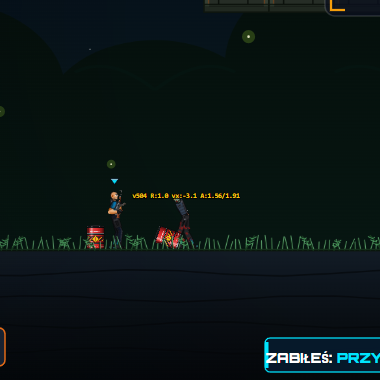
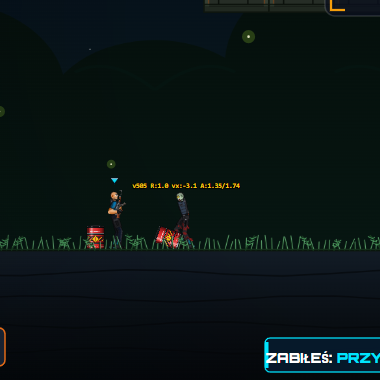
fix(zombie): zwiekszenie kontrastu skory, odsloniecie rak i wyrazna poza sięgania w locie

Changed region(s): [[0.3474, 0.4632, 0.6368, 0.6658], [0.2895, 0.4632, 0.3184, 0.4921]]

diff --git a/js/player/renderer.js b/js/player/renderer.js
@@ -514,7 +514,7 @@ export function drawPlayer(ctx, GROUND_Y, p) {
   } else if (p.isZombie) {
     // Aktywny, polujący zombie: zgarbiony tułów, powłóczący krok, luźne ramiona z daleka
     const fDir = (p.facing >= 0 ? 1 : -1);
-    p.torsoTilt = 0.10 * fDir;
+    p.torsoTilt = 0.08 * fDir;
     p.headPitch = 0.15;
     const walkAnim = p.walkAnim || 0;
     const isMoving = speed > 0.4;
@@ -1346,7 +1346,7 @@ export function drawPlayer(ctx, GROUND_Y, p) {
 
   const fLeanDir = (p.facing >= 0 ? 1 : -1);
   if (p.isZombie && !p.isDead && !p.isCrawling && (p.riseTimer || 0) <= 0) {
-    pose.torsoTilt = (0.10 + 0.36 * zReach) * fLeanDir;
+    pose.torsoTilt = (0.08 + 0.20 * zReach) * fLeanDir;
   }
 
   const cosTorsoT = Math.cos(pose.torsoTilt);
@@ -1373,16 +1373,16 @@ export function drawPlayer(ctx, GROUND_Y, p) {
     const animTime = (p.walkAnim || 0) * 2.8 + (typeof performance !== 'undefined' ? performance.now() * 0.003 : 0);
     const swayFront = Math.sin(animTime);
     const swayBack  = Math.sin(animTime + Math.PI * 0.72);
-    const pitch = p.reachAngle || 0;
+    const clampedPitch = Math.max(-0.45, Math.min(0.45, p.reachAngle || 0));
     const windup = (p.biteWindupTimer && p.biteWindupTimer > 0) ? Math.min(1.0, p.biteWindupTimer / 0.36) * 0.20 : 0;
     const lunge = (p.attackAnim && p.attackAnim > 0) ? Math.sin((p.attackAnim / 0.35) * Math.PI) * 0.22 : 0;
 
-    // Ręce mocno wyciągnięte do przodu z dramatycznym ruchem chwytającym
-    const targetFrontSwing = 1.64 - pitch + windup + lunge + swayFront * 0.22;
-    const targetBackSwing  = 1.48 - pitch + windup + lunge + swayBack * 0.22;
-    // Łokcie niemal wyprostowane z lekkim zgięciem i szponami
-    const targetFrontElbow = 0.12 + swayFront * 0.12 + (windup * 0.15) - (lunge * 0.10);
-    const targetBackElbow  = 0.20 + swayBack * 0.12 + (windup * 0.15) - (lunge * 0.10);
+    // Ręce wyciągnięte wyraźnie poziomo przed klatką piersiową z dramatycznym ruchem chwytającym
+    const targetFrontSwing = 1.56 - clampedPitch + windup * 0.14 + lunge * 0.16 + swayFront * 0.14;
+    const targetBackSwing  = 1.42 - clampedPitch + windup * 0.12 + lunge * 0.16 + swayBack * 0.14;
+    // Niemal wyprostowane, lekko sztywne przedramiona
+    const targetFrontElbow = 0.08 + swayFront * 0.08;
+    const targetBackElbow  = 0.14 + swayBack * 0.08;
 
     if (isRightLimbForeground) {
       pose.armFrontSwing = lerp(pose.armFrontSwing, targetFrontSwing, zReach);
@@ -1433,10 +1433,14 @@ export function drawPlayer(ctx, GROUND_Y, p) {
   }
 
   // KOŃCZYNY W TLE
+  const zArmExtra = (p.isZombie && !p.isDead && !p.isCrawling) ? (zReach * 1.5) : 0;
+  const effUpperArmLen = (p.upperArmLen || 14) + zArmExtra;
+  const effForearmLen = (p.forearmLen || 13) + zArmExtra;
+
   if (isRightLimbForeground) {
     if (!isArmBackDismembered) {
       if (!p.isReloading) {
-        renderArm(ctx, shLeftX, shLeftY, pose.armBackSwing, pose.armBackElbow, currentFacingDir, armColBack, null, false, v, p.upperArmLen, p.forearmLen, p);
+        renderArm(ctx, shLeftX, shLeftY, pose.armBackSwing, pose.armBackElbow, currentFacingDir, armColBack, null, false, v, effUpperArmLen, effForearmLen, p);
       }
     } else {
       drawLimbStump(ctx, shLeftX, shLeftY, pose.armBackSwing, 'arm', currentFacingDir, v, false);
@@ -1450,7 +1454,7 @@ export function drawPlayer(ctx, GROUND_Y, p) {
   } else {
     if (!isArmFrontDismembered) {
       if (!p.isReloading) {
-        renderArm(ctx, shRightX, shRightY, pose.armFrontSwing, pose.armFrontElbow, currentFacingDir, armColBack, null, false, v, p.upperArmLen, p.forearmLen, p);
+        renderArm(ctx, shRightX, shRightY, pose.armFrontSwing, pose.armFrontElbow, currentFacingDir, armColBack, null, false, v, effUpperArmLen, effForearmLen, p);
       }
     } else {
       drawLimbStump(ctx, shRightX, shRightY, pose.armFrontSwing, 'arm', currentFacingDir, v, false);
@@ -2087,7 +2091,7 @@ export function drawPlayer(ctx, GROUND_Y, p) {
 
     // Jeśli gracz przeładowuje broń, lewe ramię manipulujące magazynkiem / bębenkiem pracuje z przodu torsu:
     if (p.isReloading && !isArmBackDismembered) {
-      renderArm(ctx, shLeftX, shLeftY, pose.armBackSwing, pose.armBackElbow, currentFacingDir, armColBack, null, false, v, p.upperArmLen, p.forearmLen, p);
+      renderArm(ctx, shLeftX, shLeftY, pose.armBackSwing, pose.armBackElbow, currentFacingDir, armColBack, null, false, v, effUpperArmLen, effForearmLen, p);
     }
 
     // Broń trzymana w prawej ręce PRZED prawą nogą
@@ -2095,7 +2099,7 @@ export function drawPlayer(ctx, GROUND_Y, p) {
 
     // Prawe ramię na wierzchu (dłoń obejmuje chwyt broni)
     if (!isArmFrontDismembered) {
-      renderArm(ctx, shRightX, shRightY, pose.armFrontSwing, pose.armFrontElbow, currentFacingDir, armColFront, null, true, v, p.upperArmLen, p.forearmLen, p);
+      renderArm(ctx, shRightX, shRightY, pose.armFrontSwing, pose.armFrontElbow, currentFacingDir, armColFront, null, true, v, effUpperArmLen, effForearmLen, p);
     } else {
       drawLimbStump(ctx, shRightX, shRightY, pose.armFrontSwing, 'arm', currentFacingDir, v, true);
     }
@@ -2103,7 +2107,7 @@ export function drawPlayer(ctx, GROUND_Y, p) {
     // 2. PATRZENIE W LEWO:
     // Prawe ramię trzymające broń z przodu torsu podczas przeładowania:
     if (p.isReloading && !isArmFrontDismembered) {
-      renderArm(ctx, shRightX, shRightY, pose.armFrontSwing, pose.armFrontElbow, currentFacingDir, armColBack, null, false, v, p.upperArmLen, p.forearmLen, p);
+      renderArm(ctx, shRightX, shRightY, pose.armFrontSwing, pose.armFrontElbow, currentFacingDir, armColBack, null, false, v, effUpperArmLen, effForearmLen, p);
     }
 
     // Broń w prawej dłoni w tle znajduje się ZA pierwszoplanową lewą nogą
@@ -2118,7 +2122,7 @@ export function drawPlayer(ctx, GROUND_Y, p) {
 
     // Lewe ramię na pierwszym planie
     if (!isArmBackDismembered) {
-      renderArm(ctx, shLeftX, shLeftY, pose.armBackSwing, pose.armBackElbow, currentFacingDir, armColFront, null, true, v, p.upperArmLen, p.forearmLen, p);
+      renderArm(ctx, shLeftX, shLeftY, pose.armBackSwing, pose.armBackElbow, currentFacingDir, armColFront, null, true, v, effUpperArmLen, effForearmLen, p);
     } else {
       drawLimbStump(ctx, shLeftX, shLeftY, pose.armBackSwing, 'arm', currentFacingDir, v, true);
     }

diff --git a/js/player/limbs.js b/js/player/limbs.js
@@ -629,7 +629,8 @@ export function drawHeadWoundsAway(ctx, dmgRatio) {
 export function drawTacticalHand(ctx, foreLen, wristR, isFront, muscle, isSculpted, v, playerRef = null) {
   const handScale = (isFront ? 1.0 : 0.88) * (isSculpted ? Math.max(1.0, muscle * 0.95) : muscle);
   const hX = foreLen - 0.4;
-  const useGloves = v.hasTacticalGloves !== false;
+  const isZombieHand = Boolean((playerRef && playerRef.isZombie) || (v && v.isZombieVisuals));
+  const useGloves = !isZombieHand && (v.hasTacticalGloves !== false);
   const gloveCol0 = v.gloveColor || '#18181b';
   const gloveCol1 = '#27272a';
   const gloveCol2 = '#3f3f46';
@@ -659,8 +660,8 @@ export function drawTacticalHand(ctx, foreLen, wristR, isFront, muscle, isSculpt
   const palmBottom = 2.2 * handScale;
 
   let palmFill;
-  if (v && v.isZombieVisuals) {
-    palmFill = useGloves ? gloveCol0 : (v.skinMid || '#4a5d4e');
+  if (isZombieHand) {
+    palmFill = isFront ? (v.skinMid || '#b6ceb0') : (v.skinBack || '#8ea888');
   } else {
     const palmGrad = ctx.createLinearGradient(hX, palmTop, hX + palmLen, palmBottom);
     if (useGloves) {
@@ -762,15 +763,16 @@ export function drawTacticalHand(ctx, foreLen, wristR, isFront, muscle, isSculpt
   ctx.fillRect(hX + palmLen * 0.8, -0.8, 1.4, 0.6);
 
   // Krew na szponach i dłoniach zombie (wyszarpane szpony w pozycji sięgania ku ofierze)
-  if (v.isZombieVisuals) {
-    const clawReachExtra = isReachingZombie ? (Math.min(1.0, playerRef.reachBlend) * 1.4) : 0;
-    ctx.fillStyle = '#7f1d1d';
+  if (isZombieHand) {
+    const clawReachExtra = isReachingZombie ? (Math.min(1.0, playerRef.reachBlend) * 1.6) : 0;
+    const clawR = (2.4 + (isReachingZombie ? playerRef.reachBlend * 0.6 : 0)) * handScale;
+    ctx.fillStyle = '#b91c1c';
     ctx.beginPath();
-    ctx.arc(hX + palmLen + 0.6 + clawReachExtra, 0.4, (2.0 + (isReachingZombie ? playerRef.reachBlend * 0.4 : 0)) * handScale, 0, Math.PI * 2);
+    ctx.arc(hX + palmLen + 0.6 + clawReachExtra, 0.4, clawR, 0, Math.PI * 2);
     ctx.fill();
     ctx.fillStyle = '#ef4444';
     ctx.beginPath();
-    ctx.arc(hX + palmLen + 1.0 + clawReachExtra, 0.2, (1.0 + (isReachingZombie ? playerRef.reachBlend * 0.3 : 0)) * handScale, 0, Math.PI * 2);
+    ctx.arc(hX + palmLen + 1.2 + clawReachExtra, 0.2, clawR * 0.65, 0, Math.PI * 2);
     ctx.fill();
   }
 }
@@ -816,7 +818,7 @@ export function renderArm(ctx, shX, shY, swingAngle, elbowAngle, facing, upperCo
   ctx.rotate(armDir);
 
   const isSleevelessArm = isSleeveless(v.torsoStyle) || (Boolean(v.sleeveless) && !v.torsoStyle);
-  const isLong = !isSleevelessArm && isLongSleeve(v.torsoStyle);
+  const isLong = !isZombie && !isSleevelessArm && isLongSleeve(v.torsoStyle);
   const camoType = getCamoType(v.torsoStyle);
   const pal = getTorsoPalette(v.torsoColor || upperCol || v.armColorFront);
 
@@ -827,7 +829,7 @@ export function renderArm(ctx, shX, shY, swingAngle, elbowAngle, facing, upperCo
 
   const deltoidW = armHalfH * (isSculpted ? 1.48 : 1.32);
   const deltoidLen = upperLen * (isSculpted ? 0.48 : 0.42);
-  const deltoidColor = isFront ? v.skinMid : v.skinBack;
+  const deltoidColor = isFront ? (v.skinMid || '#b6ceb0') : (v.skinBack || '#8ea888');
 
   // 1. Odsłonięty bark i biceps (rysowane pod rękawem, aby mankiet krótkiego rękawa czysto przykrywał skórę)
   if (!isLong) {
@@ -853,7 +855,7 @@ export function renderArm(ctx, shX, shY, swingAngle, elbowAngle, facing, upperCo
 
     let bicepFill;
     if (isZombie) {
-      bicepFill = v.skinMid || '#4a5d4e';
+      bicepFill = isFront ? (v.skinMid || '#b6ceb0') : (v.skinBack || '#8ea888');
     } else {
       const bicepGrad = ctx.createLinearGradient(0, -armHalfH * 1.4, 0, armHalfH * 1.4);
       if (isFront) {
@@ -1107,12 +1109,12 @@ export function renderArm(ctx, shX, shY, swingAngle, elbowAngle, facing, upperCo
   } else {
     ctx.beginPath();
     ctx.arc(0, 0, elbowR * 0.8, 0, Math.PI * 2);
-    ctx.fillStyle = isFront ? v.skinMid : v.skinBack;
+    ctx.fillStyle = isFront ? (v.skinMid || '#b6ceb0') : (v.skinBack || '#8ea888');
     ctx.fill();
 
     let forearmFill;
     if (isZombie) {
-      forearmFill = v.skinMid || '#4a5d4e';
+      forearmFill = isFront ? (v.skinMid || '#b6ceb0') : (v.skinBack || '#8ea888');
     } else {
       const forearmGrad = ctx.createLinearGradient(0, -elbowR * 1.4, 0, elbowR * 1.4);
       if (isFront) {
@@ -1143,6 +1145,16 @@ export function renderArm(ctx, shX, shY, swingAngle, elbowAngle, facing, upperCo
     ctx.closePath();
     ctx.fillStyle = forearmFill;
     ctx.fill();
+
+    if (isZombie) {
+      // Pojedyncza, lekka linia obrysu/blasku (rim light) wzdluz gornej krawedzi przedramienia zombie
+      ctx.strokeStyle = isFront ? '#d8ead2' : '#a7c0a1';
+      ctx.lineWidth = 1.1;
+      ctx.beginPath();
+      ctx.moveTo(0, -elbowR * 0.75);
+      ctx.lineTo(foreLen * 0.78, -wristR * 0.95);
+      ctx.stroke();
+    }
   }
 
   if (isSculpted) {

diff --git a/index.html b/index.html
@@ -92,7 +92,7 @@
       "./js/loadout/logic.js": "./js/loadout/logic.js?v=v331_fix_weapon_pivot_reference_and_preview_jumps",
       "./js/loadout/state.js": "./js/loadout/state.js?v=v496_molotov_cocktail_flame_spritesheet",
       "./js/loadout/weaponPreviews.js": "./js/loadout/weaponPreviews.js?v=v496_molotov_cocktail_flame_spritesheet",
-      "./js/main.js": "./js/main.js?v=v504_zombie_visual_debug_overlay",
+      "./js/main.js": "./js/main.js?v=v505_zombie_visible_pale_arms_and_bloody_claws",
       "./js/menuFight/index.js": "./js/menuFight/index.js?v=v430_menu_dynamic_battleground",
       "./js/menuFight/logic.js": "./js/menuFight/logic.js?v=v430_menu_dynamic_battleground",
       "./js/menuFight/renderer.js": "./js/menuFight/renderer.js?v=v430_menu_dynamic_battleground",
@@ -126,7 +126,7 @@
       "./js/player/ik.js": "./js/player/ik.js?v=v503_zombie_verified_reach_burst_and_bot_aim_fix",
       "./js/player/index.js": "./js/player/index.js?v=v402_enforcer_ground_slam_restored",
       "./js/player/jetpack.js": "./js/player/jetpack.js?v=v458_eliminate_flight_shadowblur_and_glow_artifacts",
-      "./js/player/limbs.js": "./js/player/limbs.js?v=v503_zombie_verified_reach_burst_and_bot_aim_fix",
+      "./js/player/limbs.js": "./js/player/limbs.js?v=v505_zombie_visible_pale_arms_and_bloody_claws",
       "./js/player/locomotion.js": "./js/player/locomotion.js?v=v134_striker_mobile_air_dash_flames_spread",
       "./js/player/marker.js": "./js/player/marker.js?v=v458_eliminate_flight_shadowblur_and_glow_artifacts",
       "./js/player/mask.js": "./js/player/mask.js?v=v134_striker_mobile_air_dash_flames_spread",
@@ -134,7 +134,7 @@
       "./js/player/pants.js": "./js/player/pants.js?v=v134_striker_mobile_air_dash_flames_spread",
       "./js/player/shoes.js": "./js/player/shoes.js?v=v458_eliminate_flight_shadowblur_and_glow_artifacts",
       "./js/player/torso.js": "./js/player/torso.js?v=v150_enforcer_sleeves_marcus_bandana_no_jetpack",
-      "./js/player/renderer.js": "./js/player/renderer.js?v=v503_zombie_verified_reach_burst_and_bot_aim_fix",
+      "./js/player/renderer.js": "./js/player/renderer.js?v=v505_zombie_visible_pale_arms_and_bloody_claws",
       "./js/player/state.js": "./js/player/state.js?v=v459_stage1_hybrid_audio",
       "./js/progression.js": "./js/progression.js?v=v463_combat_callouts_revenge",
       "./js/projectiles.js": "./js/projectiles.js?v=v496_molotov_cocktail_flame_spritesheet",
@@ -161,8 +161,8 @@
       "./js/zombie/index.js": "./js/zombie/index.js?v=v503_zombie_verified_reach_burst_and_bot_aim_fix",
       "./js/zombie/logic.js": "./js/zombie/logic.js?v=v503_zombie_verified_reach_burst_and_bot_aim_fix",
       "./js/zombie/network.js": "./js/zombie/network.js?v=v503_zombie_verified_reach_burst_and_bot_aim_fix",
-      "./js/zombie/renderer.js": "./js/zombie/renderer.js?v=v504_zombie_visual_debug_overlay",
-      "./js/zombie/state.js": "./js/zombie/state.js?v=v503_zombie_verified_reach_burst_and_bot_aim_fix"
+      "./js/zombie/renderer.js": "./js/zombie/renderer.js?v=v505_zombie_visible_pale_arms_and_bloody_claws",
+      "./js/zombie/state.js": "./js/zombie/state.js?v=v505_zombie_visible_pale_arms_and_bloody_claws"
     }
   }
   </script>
@@ -1975,7 +1975,7 @@
     </button>
   </div>
 
-  <script type="module" src="./js/main.js?v=v504_zombie_visual_debug_overlay"></script>
+  <script type="module" src="./js/main.js?v=v505_zombie_visible_pale_arms_and_bloody_claws"></script>
 </body>
 
 </html>

diff --git a/js/zombie/renderer.js b/js/zombie/renderer.js
@@ -89,8 +89,8 @@ function drawZombieOverlay(ctx, z, floorY) {
     ctx.restore();
   }
 
-  // Diagnostyka na żywo nad głową aktywnego zombie (?perf=1 lub ?zdbg=1 w URL)
-  const isZdbg = typeof window !== 'undefined' && window.location && (window.location.search.includes('perf=1') || window.location.search.includes('zdbg=1'));
+  // Diagnostyka na żywo nad głową aktywnego zombie (?zdbg=1 w URL)
+  const isZdbg = typeof window !== 'undefined' && window.location && window.location.search.includes('zdbg=1');
   if (isZdbg) {
     ctx.save();
     ctx.font = 'bold 10px monospace';
@@ -98,8 +98,8 @@ function drawZombieOverlay(ctx, z, floorY) {
     ctx.strokeStyle = '#000000';
     ctx.lineWidth = 2.5;
     ctx.fillStyle = '#facc15';
-    const tag = `v504 R:${(z.reachBlend || 0).toFixed(1)} vx:${(z.vx || 0).toFixed(1)} A:${(z.pose?.armFrontSwing || 0).toFixed(2)}/${(z.pose?.armBackSwing || 0).toFixed(2)}`;
-    const textY = (z.hp < z.maxHp && z.hp > 0) ? (z.y - 16) : (z.y - 10);
+    const tag = `v505 R:${(z.reachBlend || 0).toFixed(1)} vx:${(z.vx || 0).toFixed(1)} A:${(z.pose?.armFrontSwing || 0).toFixed(2)}/${(z.pose?.armBackSwing || 0).toFixed(2)}`;
+    const textY = z.y - 26;
     ctx.strokeText(tag, cx, textY);
     ctx.fillText(tag, cx, textY);
     ctx.restore();

diff --git a/js/zombie/state.js b/js/zombie/state.js
@@ -166,11 +166,16 @@ export function createUndeadVisuals(baseVisuals = {}) {
 
   return {
     ...v,
-    // Martwicza, ziemisto-oliwkowa podgniła skóra (necrotic cadaverous skin)
-    skinLight: '#a3b89f',
-    skinMid: '#788f75',
-    skinDark: '#3f533c',
-    skinBack: '#546751',
+    // Martwicza, blada trupia skora (jasny, widoczny kontrast na ciemnych tlach)
+    skinLight: '#d8ead2',
+    skinMid:   '#b6ceb0',
+    skinBack:  '#8ea888',
+    skinDark:  '#556b52',
+
+    // Zdjecie rekawic i poszarpane krotkie rekawy odslaniajace blade przedramiona
+    hasTacticalGloves: false,
+    torsoStyle: 'short_sleeve',
+    sleeveLengthMult: 0.72,
 
     // Cechy fizjonomiczne nieumarłego
     isZombieVisuals: true,
